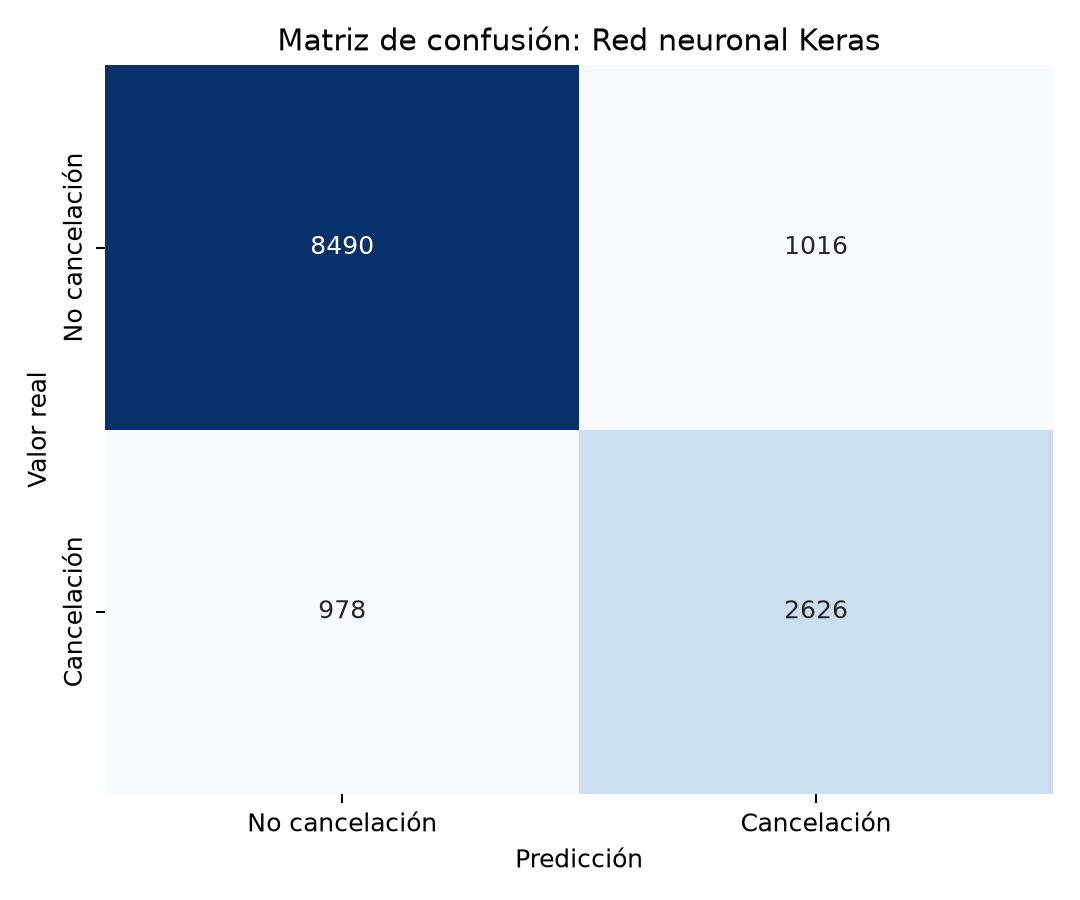
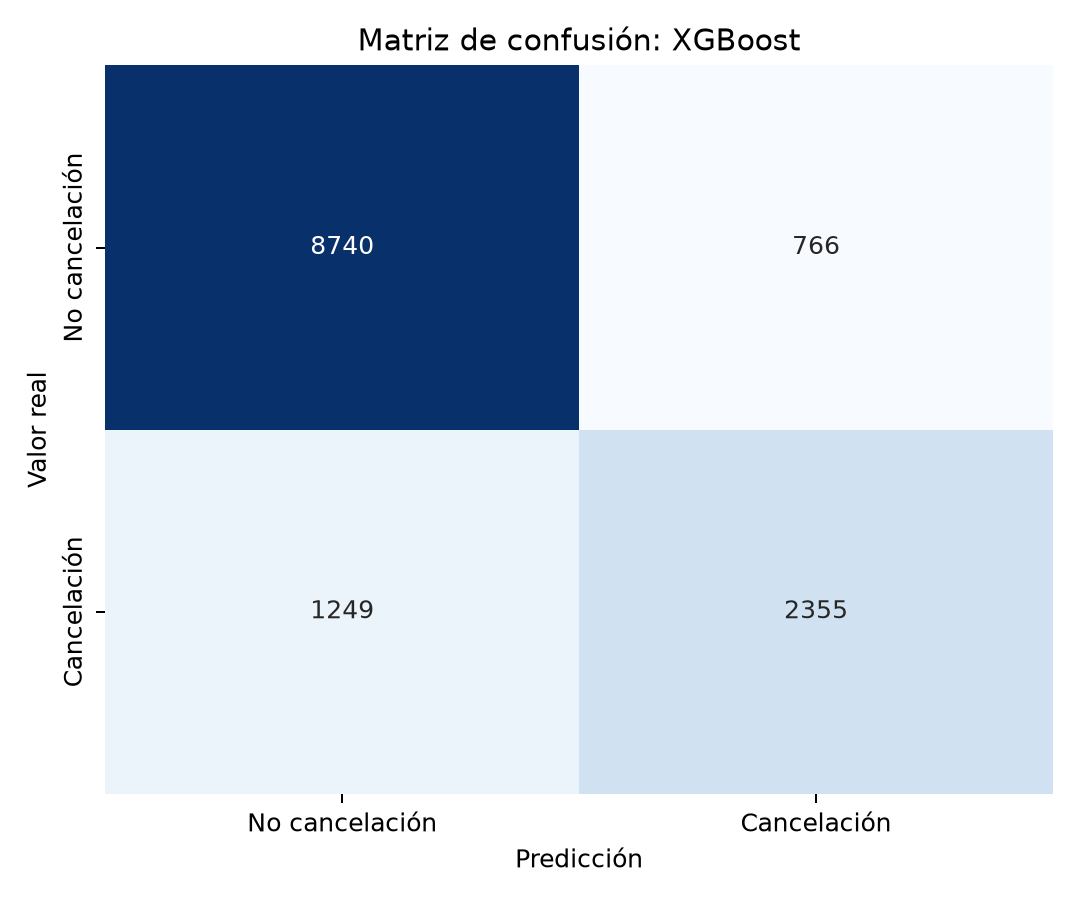
Integra XGBoost y actualiza resultados finales

diff --git a/src/trainer.py b/src/trainer.py
@@ -26,6 +26,7 @@ from sklearn.metrics import (
 from sklearn.pipeline import Pipeline
 from sklearn.preprocessing import OneHotEncoder, StandardScaler
 from sklearn.tree import DecisionTreeClassifier
+from xgboost import XGBClassifier
 
 from data_loader import cargar_datos, dividir_datos
 
@@ -199,7 +200,32 @@ modelos_entrenados["Random Forest"] = modelo_random_forest
 
 
 # ============================================================================
-# BLOQUE 6. ENTRENAMIENTO Y EVALUACIÓN DE LA RED NEURONAL KERAS
+# BLOQUE 6. ENTRENAMIENTO Y EVALUACIÓN DE XGBOOST
+# XGBoost combina árboles de forma secuencial para corregir los errores de los
+# anteriores. Suele funcionar especialmente bien con datos tabulares.
+# ============================================================================
+modelo_xgboost = XGBClassifier(
+    n_estimators=300,
+    learning_rate=0.05,
+    max_depth=6,
+    subsample=0.80,
+    colsample_bytree=0.80,
+    eval_metric="logloss",
+    n_jobs=-1,
+    random_state=RANDOM_STATE,
+)
+modelo_xgboost.fit(X_train_preparado, y_train)
+y_pred_xgboost = modelo_xgboost.predict(X_validacion_preparado)
+y_prob_xgboost = modelo_xgboost.predict_proba(X_validacion_preparado)[:, 1]
+resultados.append(
+    calcular_metricas("XGBoost", y_validacion, y_pred_xgboost, y_prob_xgboost)
+)
+probabilidades_validacion["XGBoost"] = y_prob_xgboost
+modelos_entrenados["XGBoost"] = modelo_xgboost
+
+
+# ============================================================================
+# BLOQUE 7. ENTRENAMIENTO Y EVALUACIÓN DE LA RED NEURONAL KERAS
 # La salida sigmoide devuelve una probabilidad de cancelación entre 0 y 1.
 # Early Stopping detiene el entrenamiento cuando deja de mejorar el AUC.
 # ============================================================================
@@ -270,7 +296,7 @@ modelos_entrenados["Red neuronal Keras"] = modelo_red_neuronal
 
 
 # ============================================================================
-# BLOQUE 7. COMPARACIÓN DE LOS CINCO MODELOS EN VALIDACIÓN
+# BLOQUE 8. COMPARACIÓN DE LOS CINCO MODELOS EN VALIDACIÓN
 # Se ordenan por ROC-AUC, que es la métrica principal elegida para la práctica.
 # ============================================================================
 tabla_resultados = pd.DataFrame(resultados).sort_values(
@@ -309,7 +335,7 @@ plt.close()
 
 
 # ============================================================================
-# BLOQUE 8. IMPORTANCIA DE VARIABLES DEL RANDOM FOREST
+# BLOQUE 9. IMPORTANCIA DE VARIABLES DEL RANDOM FOREST
 # Se utiliza Random Forest porque ofrece feature_importances_ directamente.
 # ============================================================================
 nombres_variables = preprocesador.get_feature_names_out()
@@ -328,7 +354,7 @@ plt.close()
 
 
 # ============================================================================
-# BLOQUE 9. SELECCIÓN DEL GANADOR Y EVALUACIÓN FINAL EN TEST
+# BLOQUE 10. SELECCIÓN DEL GANADOR Y EVALUACIÓN FINAL EN TEST
 # El test no se ha usado para entrenar ni para elegir el modelo. Aquí se utiliza
 # por primera vez para obtener una estimación final imparcial.
 # ============================================================================
@@ -381,7 +407,7 @@ print(pd.Series(metricas_test).to_string())
 
 
 # ============================================================================
-# BLOQUE 10. GUARDADO DEL MODELO Y EJEMPLO DE PREDICCIÓN
+# BLOQUE 11. GUARDADO DEL MODELO Y EJEMPLO DE PREDICCIÓN
 # Se guarda conjuntamente el preprocesador y el modelo para poder transformar
 # reservas futuras exactamente de la misma forma que los datos de entrenamiento.
 # ============================================================================

diff --git a/README.md b/README.md
@@ -18,27 +18,21 @@ src/
   data_loader.py                   carga, limpieza y división train/validación/test
   trainer.py                       ejecuta todo el entrenamiento automáticamente
 artifacts/                         métricas y gráficas generadas
-docs/
-  informe_final.md                 borrador del informe de entrega
-  guia_defensa.md                  guion y preguntas para la defensa
 ```
 
 Los notebooks son la parte principal para estudiar y presentar. Los dos
-archivos de `src/` existen porque el enunciado también pide código modular y
-un flujo automatizado. No hay clases personalizadas, argumentos de consola ni
-una arquitectura compleja: los modelos aparecen escritos uno por uno, igual
-que en un notebook de clase.
+archivos de `src/` permiten repetir la carga de datos y el entrenamiento de
+forma ordenada. No hay clases personalizadas, argumentos de consola ni una
+arquitectura compleja: los modelos aparecen escritos uno por uno, igual que en
+un notebook de clase.
 
-## Equipo y reparto propuesto
+## Equipo y reparto de trabajo
 
 | Integrante | Responsabilidad principal |
 | --- | --- |
-| **Gabriel García Vázquez** | Integración, carga/división de datos y ejecución final |
-| **Daniel Ruíz** | Análisis exploratorio y explicación de los datos |
-| **Valeria [apellidos]** | Comparación de modelos, métricas e informe |
-
-Es una propuesta. Antes de entregar, sustituid los corchetes y describid el
-trabajo real de cada persona. Los commits no deben repartirse artificialmente.
+| **Gabriel García Vázquez** | Integración final y modelo XGBoost |
+| **Daniel Ruíz** | Análisis exploratorio, regresión logística y Random Forest |
+| **Valeria** | Árbol de decisión y red neuronal con Keras |
 
 ## Cómo empezar desde cero
 
@@ -93,11 +87,11 @@ Las gráficas y métricas quedarán en `artifacts/`.
 | Regresión logística | 0,810 | 0,696 | 0,546 | 0,612 | 0,869 |
 | Árbol de decisión | 0,779 | 0,565 | **0,854** | 0,680 | 0,881 |
 | Random Forest | 0,782 | 0,570 | 0,844 | 0,681 | 0,889 |
-| **XGBoost** | 0,846 | **0,762** | 0,638 | 0,695 | **0,915** |
-| Red neuronal Keras | **0,848** | 0,723 | 0,724 | **0,724** | 0,912 |
+| **XGBoost** | **0,851** | **0,765** | 0,658 | 0,708 | **0,917** |
+| Red neuronal Keras | 0,848 | 0,723 | 0,724 | **0,724** | 0,912 |
 
-XGBoost es el modelo seleccionado por ROC-AUC. En test obtiene accuracy 0,843,
-precision 0,756, recall 0,636, F1 0,691 y ROC-AUC 0,909.
+XGBoost es el modelo seleccionado por ROC-AUC. En test obtiene accuracy 0,846,
+precision 0,755, recall 0,653, F1 0,700 y ROC-AUC 0,912.
 
 ## Limitaciones
 
